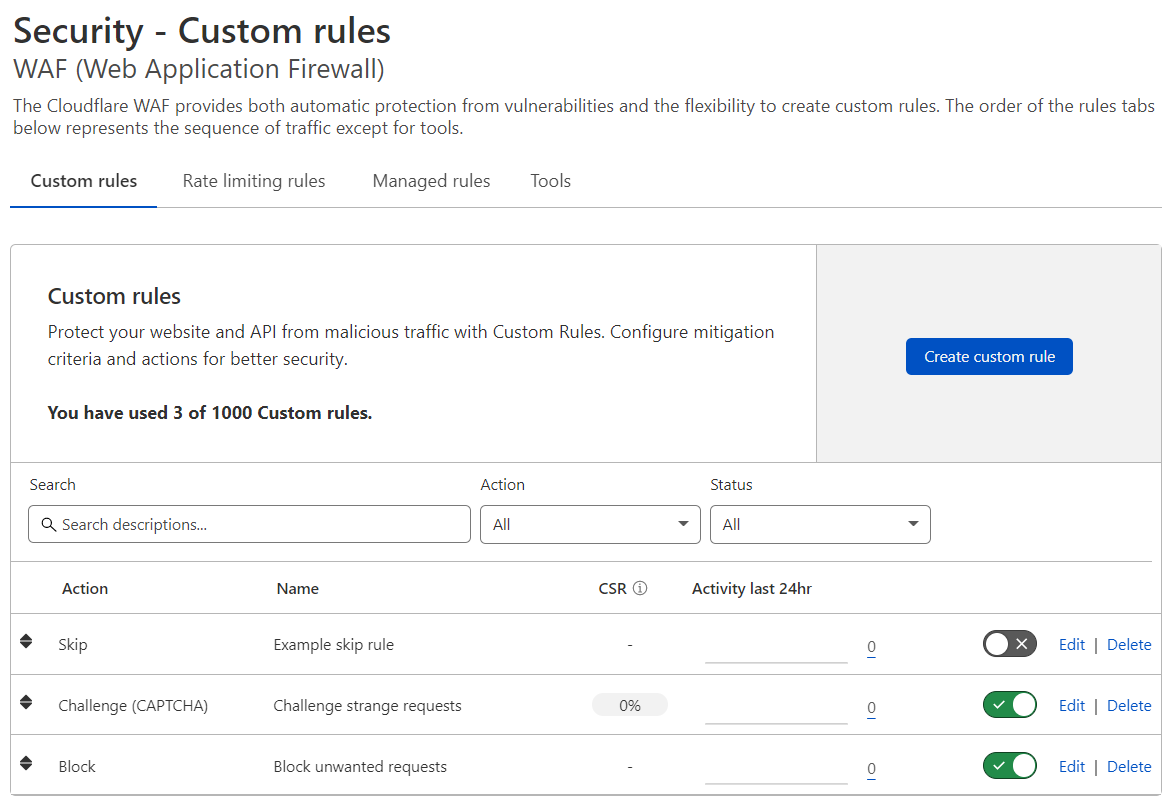
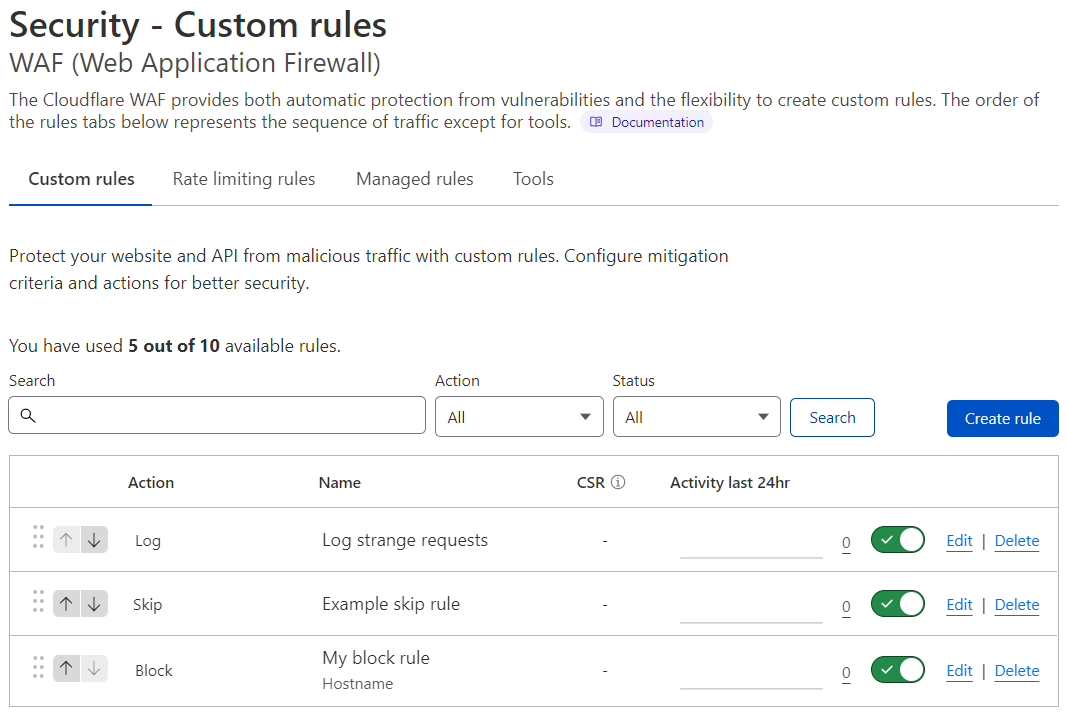
[WAF] Update navigation instructions due to dashboard changes (#7156)

diff --git a/content/waf/custom-rules/manage-dashboard.md b/content/waf/custom-rules/manage-dashboard.md
@@ -20,12 +20,13 @@ The custom rules interface allows you to:
 - Browse and filter rules
 - Edit and delete rules
 - Enable or disable rules
+- Reorder rules
 
 ![The Custom rules tab in the dashboard, listing three example rules](/waf/static/custom-rules/custom-rules-tab.png)
 
 ## Manage custom rules
 
-Edit, delete, or enable/disable rules in the **Custom rules** card.
+Edit, delete, enable/disable, or reorder rules in the **Custom rules** tab.
 
 ### Enable or disable a rule
 
@@ -42,3 +43,7 @@ To edit a rule:
 ### Delete a rule
 
 To delete a rule, select **Delete** next to the rule you want to delete and confirm the operation.
+
+### Reorder a rule
+
+Select the handle next to the rule and drag the rule into position. Alternatively, select the up/down arrow buttons to shift the rule up/down in the rules list.

diff --git a/content/waf/rate-limiting-rules/create-zone-dashboard.md b/content/waf/rate-limiting-rules/create-zone-dashboard.md
@@ -23,9 +23,9 @@ To create a new rate limiting rule:
 
 2. Navigate to **Security** > **WAF** > **Rate limiting rules**.
 
-3. Select **Create rate limiting rule**.
+3. Select **Create rule**.
 
-4. In the page that displays, enter a descriptive name for the rule in **Rule name**.
+4. Enter a descriptive name for the rule in **Rule name**.
 
     ![The Create rate limiting rule page in the Cloudflare dashboard](/waf/static/custom-rules/rate-limiting-create.png)
 

diff --git a/content/waf/custom-rules/create-dashboard.md b/content/waf/custom-rules/create-dashboard.md
@@ -26,7 +26,7 @@ To create a new custom rule:
 
 3. Navigate to **Security** > **WAF** > **Custom rules**.
 
-4. Select **Create custom rule**.
+4. Select **Create rule**.
 
 5. Enter a descriptive name for the rule in **Rule name**.
 
